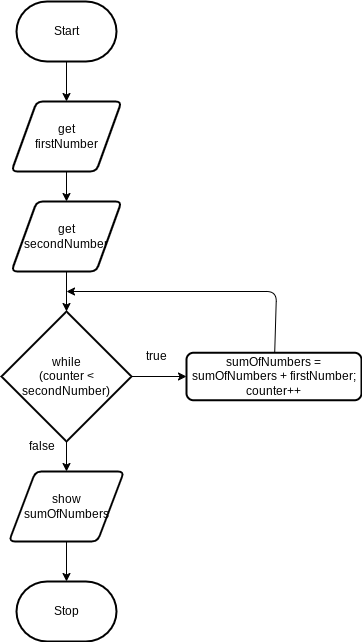
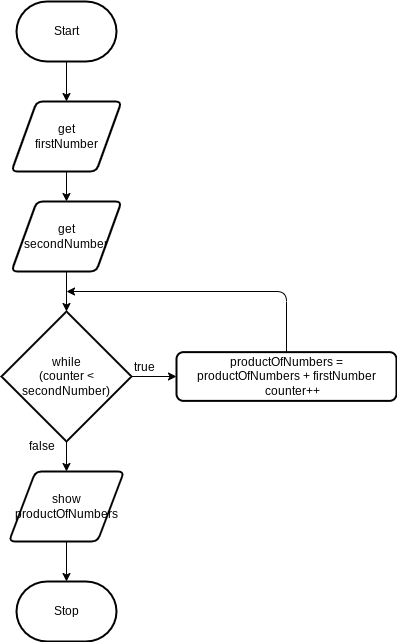
fix mistake

diff --git a/js/script.js b/js/script.js
@@ -10,19 +10,19 @@
  * this function find type of triangle
  */
 
-function calculteSumOfTwoNumber() {
+function calculteProductOfTwoNumber() {
   // input
   let firstNumber = parseFloat(document.getElementById("first-number").value)
   let secondNumber = parseFloat(document.getElementById("second-number").value)
-  let sumOfNumbers = 0
+  let productOfNumbers = 0
   let counter = 0
 
   // process
   while (counter < secondNumber) {
-    sumOfNumbers = sumOfNumbers + firstNumber
+    productOfNumbers = productOfNumbers + firstNumber
     counter++
     // output
     document.getElementById("result").innerHTML =
-      "The sum of two number is " + sumOfNumbers
+      "The product of two number is " + productOfNumbers
   }
 }

diff --git a/index.html b/index.html
@@ -42,7 +42,7 @@
             alt="multiplication table of two image"
           />
         </div>
-        <p>Please enter any two number</p>
+        <p>Please enter any 2 positive integer</p>
         <form action="#">
           <!-- Numeric Textfield -->
           <div class="mdl-textfield mdl-js-textfield">
@@ -75,9 +75,9 @@
           <br />
           <button
             class="mdl-button mdl-js-button mdl-button--raised mdl-js-ripple-effect mdl-button--accent"
-            onclick="calculteSumOfTwoNumber()"
+            onclick="calculteProductOfTwoNumber()"
           >
-            calculate sum of 2 number
+            calculate product of 2 number
           </button>
         </form>
         <br />
